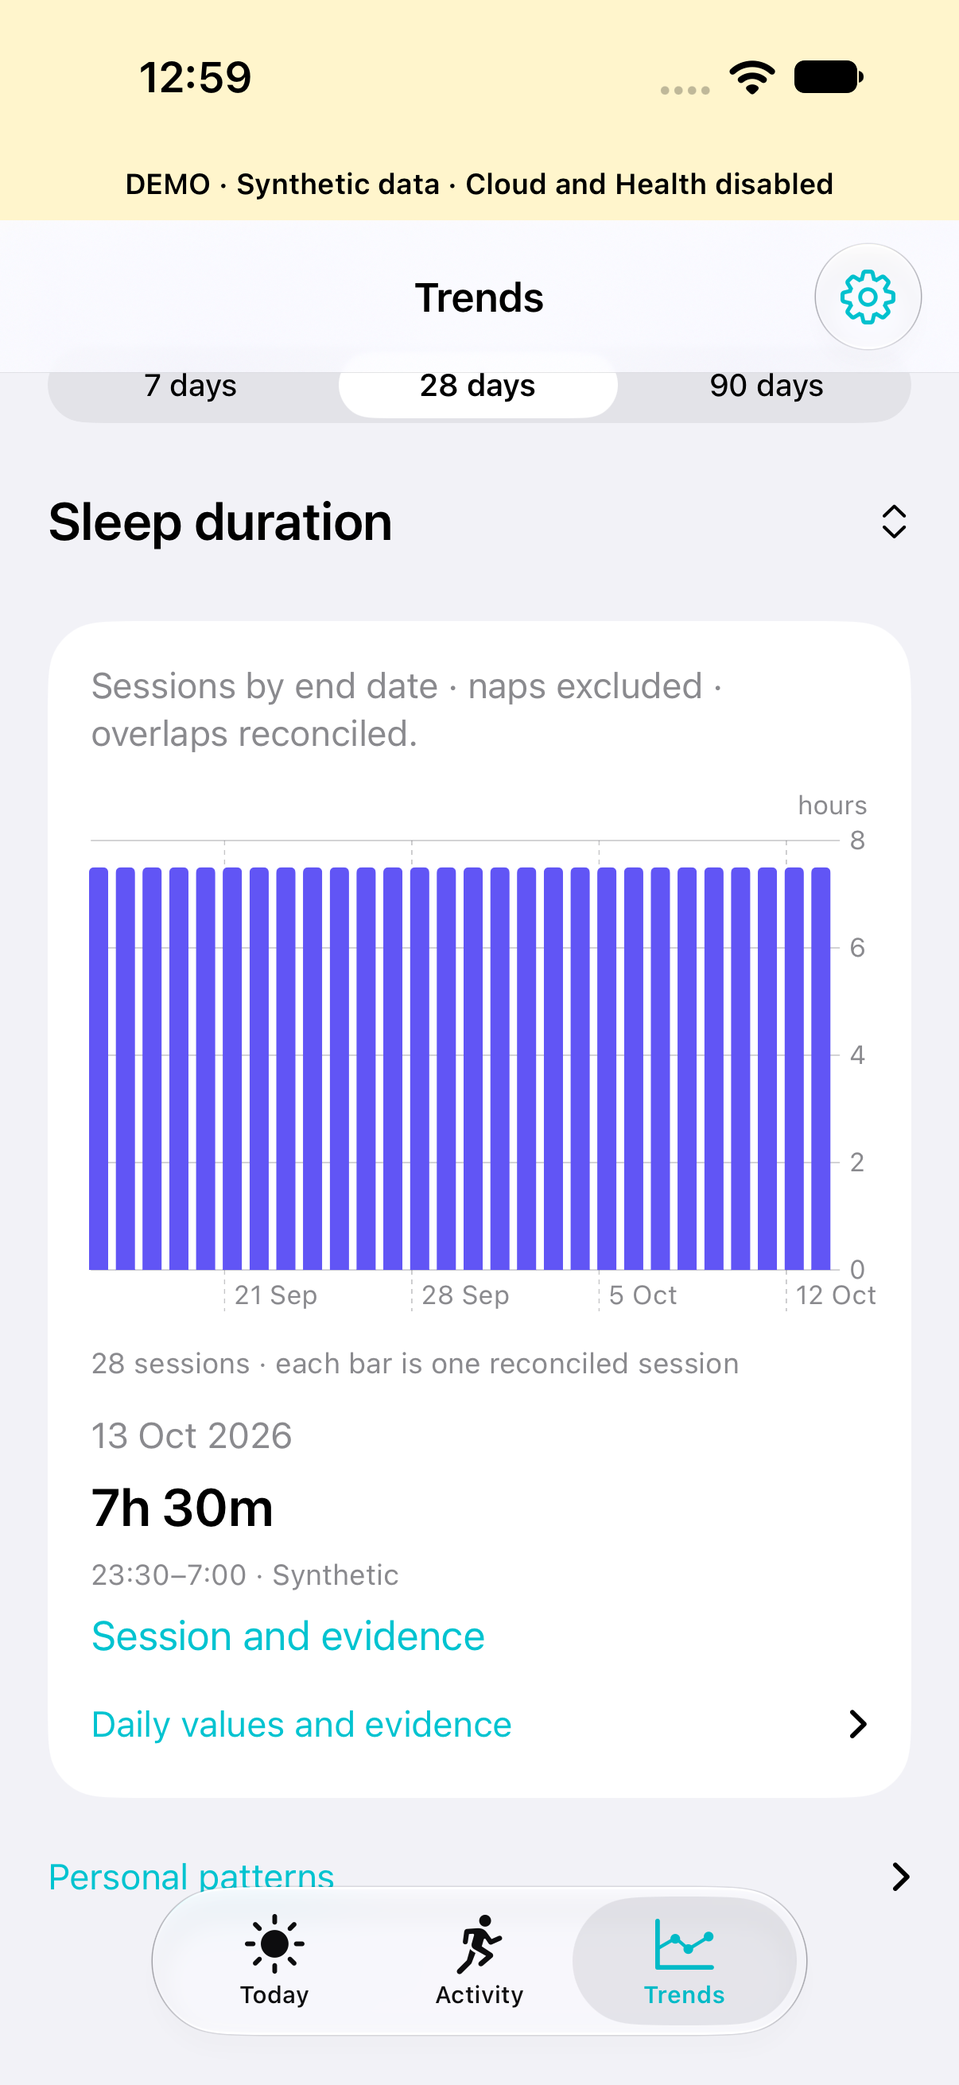
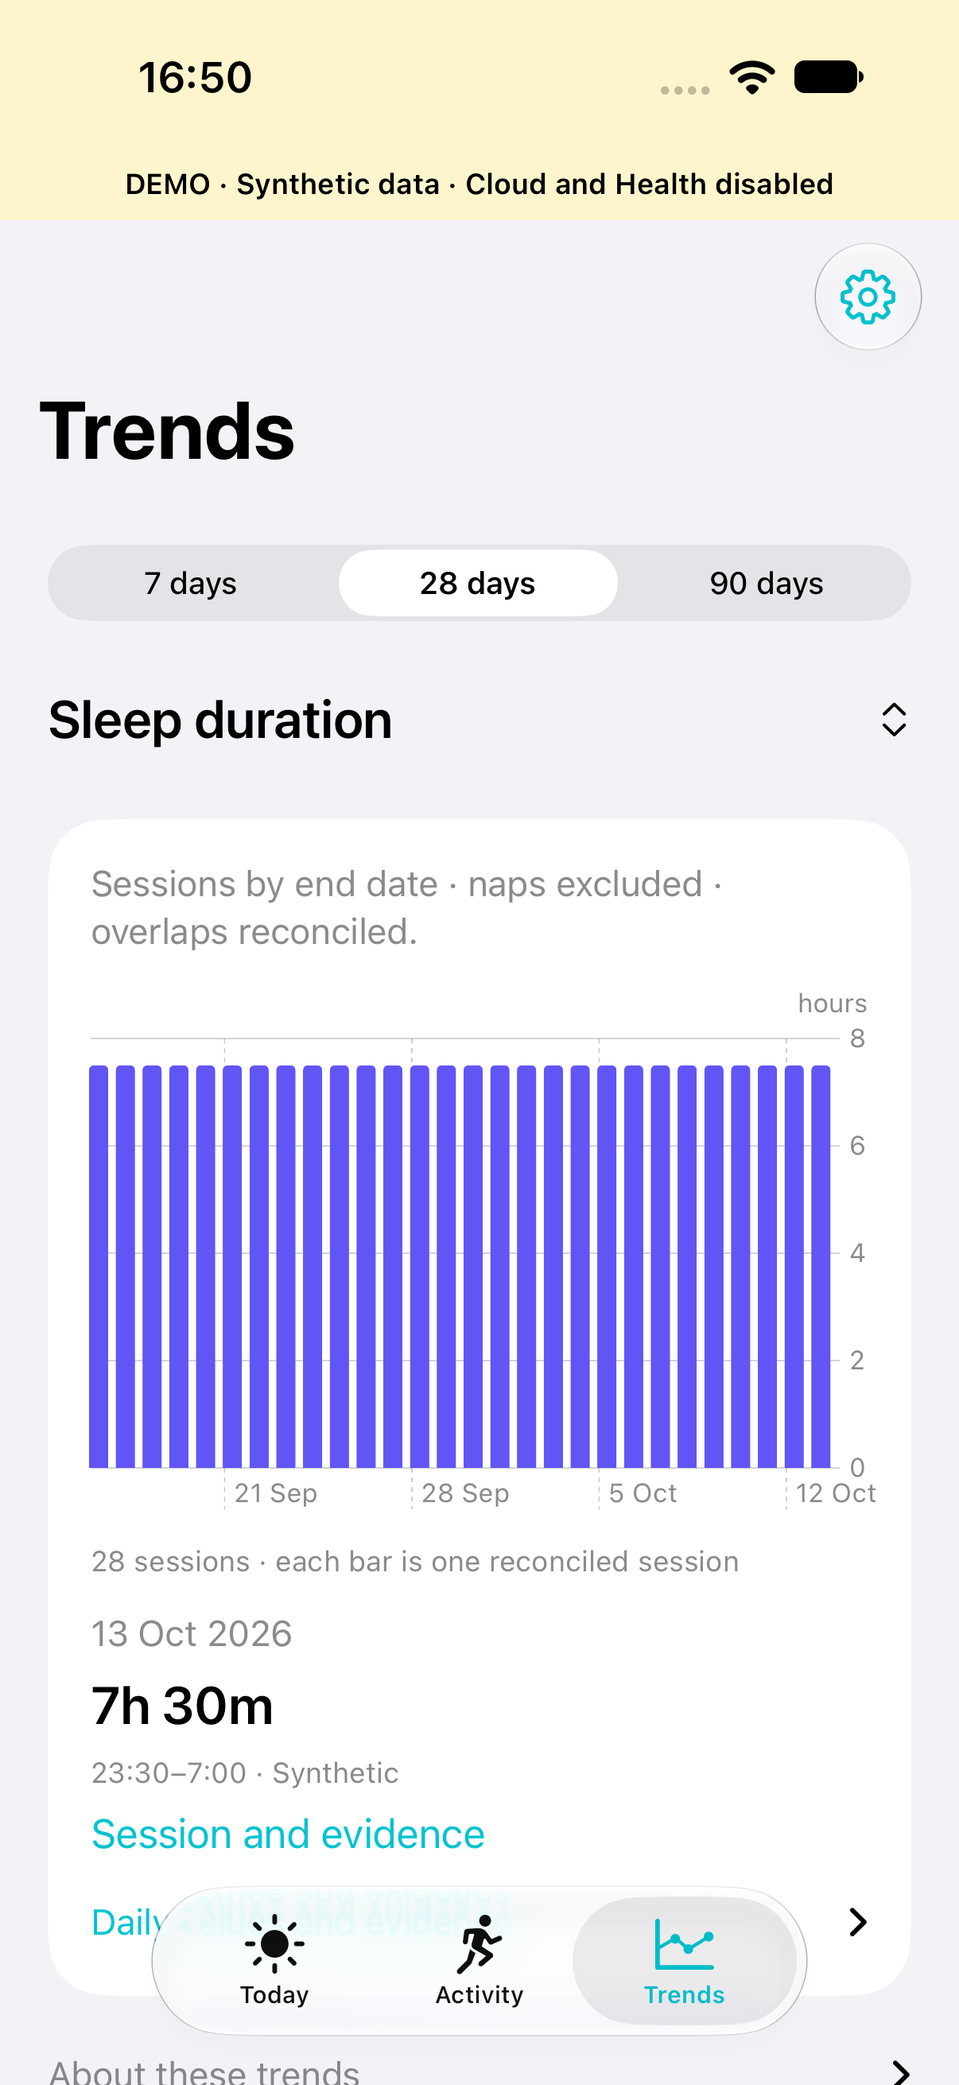
Refine Trends with descriptive period overview and stable exploration

diff --git a/Tempo/Views/TrendsView.swift b/Tempo/Views/TrendsView.swift
@@ -42,6 +42,14 @@ struct TrendsView: View {
   @State private var loading = false
   @State private var loadError: String?
   @State private var request = UUID()
+  @State private var loadedMetric: TrendMetric?
+  @State private var loadedDays: Int?
+  @State private var loadedDemo: Bool?
+  @State private var loadedStore: TempoStore?
+  private var sameDataset: Bool {
+    loadedMetric == metric && loadedDays == days && loadedDemo == model.demo
+      && loadedStore === model.store
+  }
   private var rangeStart: Date {
     Calendar.current.date(
       byAdding: .day, value: -(days - 1), to: Calendar.current.startOfDay(for: Date()))!
@@ -76,8 +84,11 @@ struct TrendsView: View {
             }.contentShape(Rectangle()).frame(minHeight: 44)
           }.tint(.primary).accessibilityLabel("Measurement").accessibilityValue(metric.title)
           VStack(alignment: .leading, spacing: 14) {
-            Text(metric.method).font(.subheadline).foregroundStyle(.secondary)
+            if metric != .sleep && sameDataset && !summaries.isEmpty {
+              periodOverview
+            }
             if metric == .sleep {
+              Text(metric.method).font(.subheadline).foregroundStyle(.secondary)
               sleepChart
               sleepSelection.id("trend-summary")
               if !sleepSessions.isEmpty {
@@ -93,9 +104,9 @@ struct TrendsView: View {
                   }
                 }.font(.subheadline)
               }
-            } else if loading {
+            } else if loading && (!sameDataset || summaries.isEmpty) {
               ProgressView("Loading history")
-            } else if let loadError {
+            } else if let loadError, !sameDataset || summaries.isEmpty {
               Text(loadError)
               Button("Retry") { Task { await refresh() } }
             } else if summaries.isEmpty {
@@ -106,7 +117,12 @@ struct TrendsView: View {
                 ))
             } else {
               measurementChart
-              Text("\(summaries.count) of \(days) days with data · gaps preserved")
+              Text(metric.method).font(.caption).foregroundStyle(.secondary)
+              if let loadError {
+                Text(loadError).font(.caption).foregroundStyle(.secondary)
+                Button("Retry") { Task { await refresh() } }
+              }
+              Text("Tap or drag on the chart to explore a day.")
                 .font(.caption).foregroundStyle(.secondary)
               measurementSelection.id("trend-summary")
               DisclosureGroup("Daily values and evidence") {
@@ -126,11 +142,12 @@ struct TrendsView: View {
           }.padding(18).background(
             Color(uiColor: .secondarySystemGroupedBackground),
             in: RoundedRectangle(cornerRadius: 24))
-          DisclosureGroup("Personal patterns") {
-            Text("Keep a journal to build context for your measurements.").font(.subheadline)
-            Text("\(model.journals.count) entries · insights need enough paired observations")
-              .font(.caption).foregroundStyle(.secondary)
-          }.font(.subheadline)
+          DisclosureGroup("About these trends") {
+            Text("Typical recorded day is the median of daily values, with each recorded day weighted equally. Missing days are excluded.")
+            Text("Empty days mean missing qualifying data, not zero. A change in band, wearing placement or recording coverage can change the pattern.")
+            Text("Heart rate describes recorded periods. It is not a resting measurement or a full-day average.")
+            Text("Journal associations are not available yet. Your entries remain saved for future analysis.")
+          }.font(.subheadline).foregroundStyle(.secondary)
         }.padding(20)
       }.background(Color(uiColor: .systemGroupedBackground)).navigationTitle("Trends")
         .refreshable { await refresh() }
@@ -141,6 +158,33 @@ struct TrendsView: View {
         ) {
           await refresh()
         }
+    }
+  }
+  private var periodOverview: some View {
+    let overview = TrendPeriodSummary(summaries, expectedDays: days)
+    return VStack(alignment: .leading, spacing: 12) {
+      Text("Typical recorded day").font(.subheadline).foregroundStyle(.secondary)
+      if let value = overview.typicalValue {
+        Text("\(String(format: "%.1f", value)) \(metric.unit)")
+          .font(.largeTitle.weight(.semibold)).monospacedDigit()
+          .accessibilityIdentifier("trend-period-value")
+      }
+      HStack {
+        Text("\(overview.recordedDays) of \(overview.expectedDays) days recorded")
+        Spacer()
+        Text("\(Int(Double(overview.recordedDays) / Double(overview.expectedDays) * 100))%")
+          .monospacedDigit()
+      }.font(.caption).foregroundStyle(.secondary)
+      ProgressView(value: Double(overview.recordedDays), total: Double(overview.expectedDays))
+        .tint(.teal).accessibilityLabel("Days with qualifying data")
+      if let range = overview.range {
+        Text("Daily values: \(String(format: "%.1f", range.lowerBound))–\(String(format: "%.1f", range.upperBound)) \(metric.unit)")
+          .font(.caption).foregroundStyle(.secondary)
+      }
+      if overview.incomplete {
+        Text("Sample limit reached · incomplete period")
+          .font(.caption).foregroundStyle(.secondary)
+      }
     }
   }
   private var measurementChart: some View {
@@ -303,7 +347,7 @@ struct TrendsView: View {
     request = token
     loading = true
     loadError = nil
-    selectedDate = nil
+    if !sameDataset { selectedDate = nil; summaries = [] }
     let requestedMetric = metric
     let requestedDays = days
     let requestedDemo = model.demo
@@ -311,6 +355,10 @@ struct TrendsView: View {
     let generation = model.historyGeneration
     guard let kind = requestedMetric.kind else {
       summaries = []
+      loadedMetric = requestedMetric
+      loadedDays = requestedDays
+      loadedDemo = requestedDemo
+      loadedStore = requestedStore
       loading = false
       return
     }
@@ -324,13 +372,16 @@ struct TrendsView: View {
         generation == model.historyGeneration
       else { return }
       summaries = values
+      loadedMetric = requestedMetric
+      loadedDays = requestedDays
+      loadedDemo = requestedDemo
+      loadedStore = requestedStore
       loading = false
     } catch {
       guard !Task.isCancelled, request == token, requestedMetric == metric, requestedDays == days,
         requestedDemo == model.demo, model.store === requestedStore,
         generation == model.historyGeneration
       else { return }
-      summaries = []
       loading = false
       loadError = "History couldn't load. Your stored measurements are unchanged."
     }

diff --git a/Tests/TempoUITests/TempoUITests.swift b/Tests/TempoUITests/TempoUITests.swift
@@ -99,7 +99,7 @@ extension TempoUITests {
     capture("workout-summary-demo")
     app.buttons["Done"].tap()
     app.tabBars.buttons["Trends"].tap()
-    XCTAssertTrue(app.staticTexts["Personal patterns"].waitForExistence(timeout: 5))
+    XCTAssertTrue(app.buttons["Measurement"].waitForExistence(timeout: 5))
     capture("trends-demo")
     app.tabBars.buttons["Today"].tap()
     app.buttons["See inputs and calculation"].tap()
@@ -441,11 +441,19 @@ extension TempoUITests {
     app.tabBars.buttons["Trends"].tap()
     XCTAssertTrue(app.buttons["Measurement"].waitForExistence(timeout: 5))
     XCTAssertFalse(app.staticTexts["Sleep duration"].exists)
-    app.buttons["Daily values and evidence"].tap()
+    XCTAssertTrue(app.staticTexts["trend-period-value"].waitForExistence(timeout: 10))
+    let overview = XCTAttachment(screenshot: app.screenshot())
+    overview.name = "trends-demo"
+    overview.lifetime = .keepAlways
+    add(overview)
+    let daily = app.buttons["Daily values and evidence"]
+    for _ in 0..<5 where !daily.isHittable { app.swipeUp() }
+    daily.tap()
     let day = app.buttons["trend-day-0"]
     XCTAssertTrue(day.waitForExistence(timeout: 5))
     day.tap()
     XCTAssertTrue(app.staticTexts["trend-selected-value"].exists)
+    for _ in 0..<5 where !app.buttons["Measurement"].isHittable { app.swipeDown() }
     app.buttons["Measurement"].tap()
     app.buttons["Sleep duration"].tap()
     XCTAssertTrue(app.staticTexts["Sleep duration"].waitForExistence(timeout: 5))

diff --git a/Sources/TempoCore/TrendSummary.swift b/Sources/TempoCore/TrendSummary.swift
@@ -80,3 +80,31 @@ public struct DailyTrendSummary: Sendable, Identifiable {
     }
   }
 }
+
+/// A descriptive summary of recorded daily values, never an imputed health assessment.
+/// Each day has equal weight. Missing days are excluded, not treated as zero.
+public struct TrendPeriodSummary: Sendable {
+  public let typicalValue: Double?
+  public let range: ClosedRange<Double>?
+  public let recordedDays: Int
+  public let expectedDays: Int
+  public let coveredSeconds: Double?
+  public let incomplete: Bool
+  public init(_ days: [DailyTrendSummary], expectedDays: Int) {
+    let values = days.map(\.value).filter { $0.isFinite }.sorted()
+    recordedDays = values.count
+    self.expectedDays = max(1, expectedDays)
+    incomplete = days.contains { $0.truncated }
+    if values.isEmpty {
+      typicalValue = nil
+      range = nil
+    } else {
+      let middle = values.count / 2
+      typicalValue = values.count.isMultiple(of: 2)
+        ? values[middle - 1] / 2 + values[middle] / 2 : values[middle]
+      range = values.first!...values.last!
+    }
+    let coverage = days.compactMap(\.coveredSeconds).filter { $0.isFinite && $0 >= 0 }
+    coveredSeconds = coverage.isEmpty ? nil : coverage.reduce(0, +)
+  }
+}

diff --git a/Tests/TempoCoreTests/TrendSummaryTests.swift b/Tests/TempoCoreTests/TrendSummaryTests.swift
@@ -95,3 +95,29 @@ extension TrendSummaryTests {
     XCTAssertEqual(summary.inputDigest, StableID.hash(data.map(\.id).joined(separator: "|")))
   }
 }
+
+extension TrendSummaryTests {
+  func testPeriodSummaryKeepsMissingDaysOutOfMedian() {
+    let a = DailyTrendSummary.calculate(samples(), kind: .heartRate)[0]
+    var b = a
+    b.date = a.date.addingTimeInterval(86400)
+    b.value = 90
+    let overview = TrendPeriodSummary([a, b], expectedDays: 28)
+    XCTAssertEqual(overview.typicalValue, 110)
+    XCTAssertEqual(overview.recordedDays, 2)
+    XCTAssertEqual(overview.expectedDays, 28)
+    XCTAssertEqual(overview.coveredSeconds, 240)
+  }
+  func testEmptyPeriodDoesNotInventValue() {
+    let overview = TrendPeriodSummary([], expectedDays: 7)
+    XCTAssertNil(overview.typicalValue)
+    XCTAssertNil(overview.range)
+    XCTAssertNil(overview.coveredSeconds)
+    XCTAssertEqual(overview.recordedDays, 0)
+  }
+  func testIncompletePeriodDisclosesTruncation() {
+    var a = DailyTrendSummary.calculate(samples(), kind: .heartRate)[0]
+    a.truncated = true
+    XCTAssertTrue(TrendPeriodSummary([a], expectedDays: 7).incomplete)
+  }
+}

diff --git a/README.md b/README.md
@@ -32,7 +32,7 @@ Manufacturer names identify hardware compatibility only. Tempo is not an officia
 | Workouts | Padel, cycling, running, strength, walking and other; start/pause/resume/finish; persisted state, source segments, HR chart, zones, load, notes and exertion | Domain and simulator tests pass; physical continuity pending |
 | Sleep and journal | Entered/imported sleep, naps flag, timezone retention, manual corrections; optional energy, mood, soreness and behaviours | Experimental HR-only possible-sleep proposals with user review; motion-backed detection and staging unavailable |
 | Analytics | Quality-gated RMSSD/SDNN, conservative personal readiness, Edwards cardiovascular load, source-change confidence reduction | Transparent rules tested; no medical or proprietary-algorithm validation |
-| Trends | Local-day covered-time HR averages, per-metric medians/latest weight, missing-day gaps, units and input/source evidence over7/28/90days | Full metric catalogue, custom ranges and personal-insight pairing unfinished |
+| Trends | Period overview with typical recorded day, recorded-day coverage, local-day covered-time HR averages, per-metric medians/latest weight, missing-day gaps and inspectable evidence over 7/28/90 days | Full metric catalogue, custom ranges and personal-insight pairing unfinished |
 | Private sync | Foreground freshness checks, separate last-success/pending status, compressed bounded batches, incremental zone tokens, durable retries, immutable edit conflicts, logical deletions and account binding | Adapter compiles; signed two-phone integration pending |
 | Apple Health | Optional selected imports and measured HR/manual sleep/recorded workout exports; provenance and own-source exclusion | Physical permission, reconciliation and export behavior pending |
 | Backup | Versioned JSON archive, manifest fields, SHA-256 validation and transactional idempotent restore | Core tests pass; large streaming archives unfinished |
@@ -128,7 +128,7 @@ These are real screenshots captured from Tempo running in the iOS simulator, wit
 
 [<img src="docs/screenshots/live-dashboard-demo.png" width="240" alt="Live dashboard with clearly labelled synthetic heart rate and coverage">](docs/screenshots/live-dashboard-demo.png)
 
-All sixteen captures come from successful simulator tests. Today now uses a native large title, a prominent live-reading entry, compact readiness and paired sleep/movement summaries. At accessibility text sizes the daily summaries stack vertically. Collection comes first while a baseline builds; unavailable readiness has compact progress instead of an empty score. Activity puts sport selection and Start first, with focused recording controls and a cancelable Finish alert. Trends shows one selected metric, including sleep; selecting a missing day does not borrow a neighbour’s value. Live puts the current/recent reading and a larger four-hour chart first, with 15-minute and one-hour options. Coverage shows the percentage of the selected period recorded; blank periods remain visible. Chart methodology and source evidence expand on demand. Pull-to-refresh requests band collection and enabled cloud sync. Pull down or tap Refresh on Today to check collection and request enabled cloud sync. Journal puts Energy, Soreness and Mood first, with optional context and same-day editing. Workout details put notes/exertion ahead of collapsible measurement evidence. Capture provenance and checksums are in [the screenshot manifest](docs/screenshots/capture-manifest.json).
+All sixteen captures come from successful simulator tests. Today now uses a native large title, a prominent live-reading entry, compact readiness and paired sleep/movement summaries. At accessibility text sizes the daily summaries stack vertically. Collection comes first while a baseline builds; unavailable readiness has compact progress instead of an empty score. Activity puts sport selection and Start first, with focused recording controls and a cancelable Finish alert. Trends puts the typical recorded day and recorded-day coverage above one focused chart. Select a point or an accessible daily row to inspect evidence; missing days stay empty. Same-dataset refreshes retain the chart and selected day. Sleep remains a separate session view. Live puts the current/recent reading and a larger four-hour chart first, with 15-minute and one-hour options. Coverage shows the percentage of the selected period recorded; blank periods remain visible. Chart methodology and source evidence expand on demand. Pull-to-refresh requests band collection and enabled cloud sync. Pull down or tap Refresh on Today to check collection and request enabled cloud sync. Journal puts Energy, Soreness and Mood first, with optional context and same-day editing. Workout details put notes/exertion ahead of collapsible measurement evidence. Capture provenance and checksums are in [the screenshot manifest](docs/screenshots/capture-manifest.json).
 
 | Baseline building · empty test dataset | Band status · empty test dataset | Sleep trends · synthetic demo |
 |---|---|---|

diff --git a/docs/Analytics.md b/docs/Analytics.md
@@ -69,3 +69,9 @@ Live chart coverage and its time-weighted mean are descriptive receipt statistic
 Runs locally after history commits and on dataset load over the last48hours. Canonical finite HR30–220, excluding recorded workouts and off-body/invalid observations, is reduced to one sample per UTC second. At least4hours of readings and a10bpm difference between20th/90th percentiles are required. Five-minute bins need80% coverage and no gap over30seconds; median HR must be at most min(80,20th percentile+5)bpm. At least24 consecutive bins (2hours),30minutes since the end and a higher HR reading within an hour of the end are required. Missing bins split runs; naps under2hours are not detected. Bin timing is approximate, not physiological sleep/wake measurement.
 
 Possible sleep is explicitly HR-only and experimental: quiet wakefulness, medication and charging artifacts with unknown contact may resemble rest. Unresolved W5 quality flags can participate in these descriptive proposals, but are still excluded from RHR/HRV/readiness/load. Candidates do not enter sleep totals, Health or readiness until the user reviews timing and saves a manual confirmation. Detailed stages are absent. Existing sleep revisions, corrections and dismissals suppress overlapping proposals. Confirmed sleep retains algorithm version, input count/digest and original coverage; the digest refers to immutable observation IDs in the retained UTC window. Automatic inference does not overwrite edits. Manual confirmation supplies sleep duration; unsupported overnight metrics remain missing. Timezone at detection is recorded; historical travel timezone cannot be inferred from HR.
+
+### Trends period overview
+
+“Typical recorded day” is the median of the selected metric's recorded daily summaries, with each day weighted equally. It is a descriptive summary, not a recovery assessment. Missing days are excluded rather than treated as zero; the page shows recorded-day count, fraction and daily-value range. This fraction describes days with qualifying data, not continuous sensor coverage. Any truncated daily summary makes the period visibly incomplete. HR remains a covered-time daily average, with its partial-day caveat and per-day coverage available below the chart. No previous-period health judgement is inferred from uneven recording.
+
+The page retains its chart and selected day during refreshes of the same metric, range, store and demo mode. Switching those identities clears the old values; request guards continue to reject obsolete results. Journal associations are explicitly unavailable rather than presented as an unfinished insight teaser.

diff --git a/docs/Completed.md b/docs/Completed.md
@@ -42,3 +42,5 @@ Compact index only: ID · outcome · commit · verification. Remove closed ticke
 - UX25 · isolated live BPM/workout timers from dashboard list/history, retained chart during same-context reload · two focused UI tests and signed Release build passed; installed. Physical scrolling/CPU acceptance remains D05.
 
 - AUD01 · fixed metric/tombstone query limits and false live truncation, manifest retry reset/stale-failure race, malformed timestamp trap/atomic rollback, and backward workout source/finish chronology; repaired outdated placement-test scrolling · f5117ca ·147 Debug/Release core tests; broad UI20/21 followed by4 final-source passes and1 Live pass; signed Release build installed, independent rereview clear. Physical/history/Health stage reconciliation gates remain open in BugAudit.md.
+
+- UX11 — Trends now leads with a descriptive period median, recorded-day coverage and daily range; chart/day selection survive same-dataset refreshes, including sleep. Methodology moves below the chart; unfinished insights are labelled unavailable. Verified: 150 core tests, two final simulator standard/maximum-text-dark flows, inspected fresh synthetic captures, signed Release build/install and read-only review. Physical performance and collection gates remain open.

diff --git a/docs/Verification.md b/docs/Verification.md
@@ -2,6 +2,13 @@
 
 Software verification is separate from physical collection acceptance.
 
+## Trends refinement
+
+- 150 core tests passed, including new period-summary cases for missing days, empty ranges and truncation. The new summary API was absent in the initial test build before implementation.
+- Both final-source simulator flows passed: standard Trends metric/day evidence and maximum Dynamic Type/dark Trends-to-Live navigation. An earlier large-text run failed because explanatory headings pushed the metric selector below the fold; the layout was simplified and the unchanged large-text check then passed.
+- Fresh unmodified Trends and sleep-Trends captures were inspected and added to the gallery with updated manifest checksums. Read-only review found and corrected a sleep refresh identity omission; final review found no remaining important changed-line defects.
+- Signed Release build succeeded and installed on the test iPhone. This verifies installation, not physical smoothness or missing history recovery.
+
 ## Integrity audit
 
 - 147 core tests passed in Debug and 147 in Release, including 13 new regression/boundary cases. Reproducers first failed for query filtering/deletion limits, retry state/races, timestamp safety and workout chronology.

diff --git a/docs/screenshots/README.md b/docs/screenshots/README.md
@@ -16,3 +16,5 @@ xcrun xcresulttool export attachments --path /path/to/results.xcresult --output-
 ```
 
 Screen captures demonstrate software layout and navigation only. They must not be represented as physical-hardware validation.
+
+The current Trends and sleep-Trends images were refreshed by `testTrendsSelectsOneMetricAndAccessibleDayEvidence`, from its successful final-source simulator run. The Trends overview shows recorded-day coverage and a descriptive median; these remain synthetic examples, not physical sensor validation.
